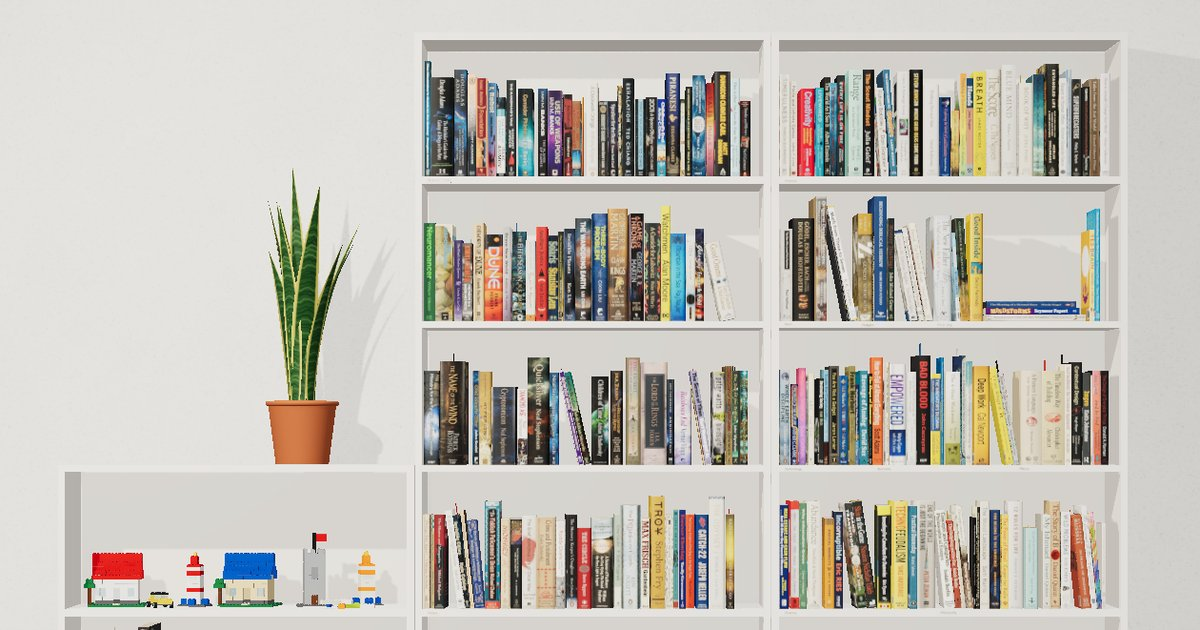
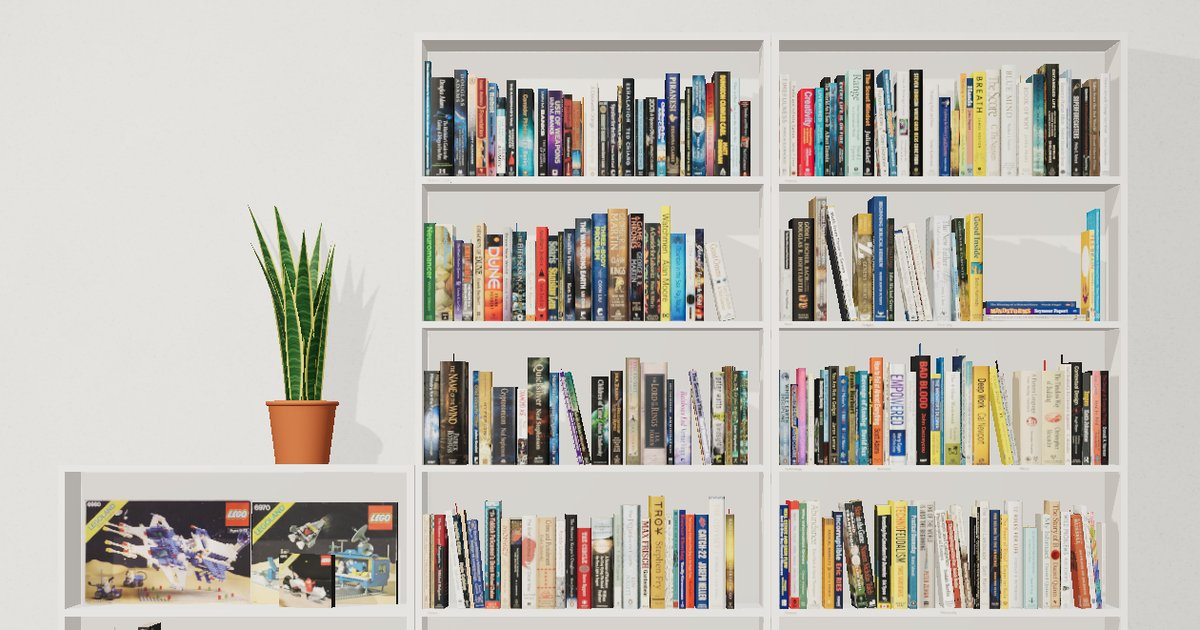
Swap brick builds for classic Lego Space set boxes
The low Billy now displays boxes from 1980s Space sets (Galaxy Commander,
Beta-1 Command Base, Galaxy Explorer, Robot Command Center, ...): real box
art from Brickset on black-sided boxes, big ones leaning against the back
panel with a small one in front. fetch_lego.py downloads the art;
publish.sh ships preview/props.

Changed region(s): [[0.0617, 0.7841, 0.3392, 0.9651], [0.2158, 0.3016, 0.3083, 0.6333]]

diff --git a/poc/preview/index.html b/poc/preview/index.html
@@ -813,173 +813,23 @@ function colourPlan() {
   });
 }
 const notes = [], pivots = [], layoutProps = [];
-// ---------- props on the low Billy: Lego builds, a bookend, a snake plant ----------
-// Bricks are real-size (8 mm stud pitch, 9.6 mm bricks, 3.2 mm plates); each build is merged into one mesh per colour.
-const STUD = 8, BRICK = 9.6, PLATE = 3.2;
-const BRICK_RGB = { red: 0xc91a09, blue: 0x0055bf, yellow: 0xf2cd37, white: 0xf2f2ee, black: 0x1f2326, green: 0x237841,
-  grey: 0xa0a5a9, dkgrey: 0x5f6266, orange: 0xfe8a18, tan: 0xe4cd9e, brown: 0x6b3f22, azure: 0x36aebf, lime: 0xa5ca18 };
-const brickMats = {};
-const brickMat = c => brickMats[c] ??= c === 'glass'
-  ? new THREE.MeshStandardMaterial({ color: 0x9fd3e6, roughness: 0.05, transparent: true, opacity: 0.45 })
-  : new THREE.MeshStandardMaterial({ color: BRICK_RGB[c], roughness: 0.3 });
-const studGeo = new THREE.CylinderGeometry(2.4, 2.4, 1.7, 12);
-const brickGeos = new Map();
-function brickGeo(nx, nz, hgt, studs = true) {
-  const key = `${nx}/${nz}/${hgt}/${studs}`;
-  if (!brickGeos.has(key)) {
-    const parts = [new THREE.BoxGeometry(nx * STUD - 0.2, hgt - 0.1, nz * STUD - 0.2)];
-    if (studs) for (let i = 0; i < nx; i++) for (let k = 0; k < nz; k++)
-      parts.push(studGeo.clone().translate((i - (nx - 1) / 2) * STUD, hgt / 2 + 0.85, (k - (nz - 1) / 2) * STUD));
-    brickGeos.set(key, mergeGeometries(parts));
-  }
-  return brickGeos.get(key);
-}
-// A build: add bricks on a stud grid (gx, gz = corner in studs; y = bottom in mm), then done() -> Group.
-function build() {
-  const byColour = {};
-  const add = (c, nx, nz, gx, gz, y, hgt = BRICK, rot = 0, studs = true) => {
-    const g = brickGeo(nx, nz, hgt, studs).clone();
-    if (rot) g.rotateY(rot);
-    g.translate((gx + nx / 2) * STUD, y + hgt / 2, (gz + nz / 2) * STUD);
-    (byColour[c] ??= []).push(g);
-  };
-  const extra = [];
-  return {
-    add, extra, raw: (c, g) => (byColour[c] ??= []).push(g),
-    // one course of a wall along a line of cells, broken into bricks of up to 4 studs (staggered by course)
-    course(c, cells, y, row, alongX) {
-      let run = [];
-      const flush = () => {
-        for (let i = 0; i < run.length;) {
-          const len = Math.min(i === 0 && row % 2 ? 2 : 4, run.length - i);
-          const [x, z] = run[i];
-          alongX ? add(c, len, 1, x, z, y) : add(c, 1, len, x, z, y);
-          i += len;
-        }
-        run = [];
-      };
-      for (const cell of cells) {
-        if (cell === null) { flush(); continue; }
-        if (run.length && (alongX ? cell[0] !== run.at(-1)[0] + 1 : cell[1] !== run.at(-1)[1] + 1)) flush();
-        run.push(cell);
-      }
-      flush();
-    },
-    done() {
-      const grp = new THREE.Group();
-      for (const [c, gs] of Object.entries(byColour)) {
-        const m = new THREE.Mesh(mergeGeometries(gs), brickMat(c));
-        m.castShadow = c !== 'glass'; m.receiveShadow = true;
-        grp.add(m);
-      }
-      extra.forEach(m => grp.add(m));
-      return grp;
-    },
-  };
-}
-const range = (a, b) => Array.from({ length: b - a + 1 }, (_, i) => a + i);
-
-function legoHouse(roof = 'red', walls = 'white') {
-  const b = build();
-  b.add('green', 16, 16, 0, 0, 0, PLATE);                          // baseplate
-  const x0 = 2, x1 = 13, z0 = 3, z1 = 12, y0 = PLATE;
-  const door = x => x >= 7 && x <= 8, win = x => (x >= 3 && x <= 4) || (x >= 11 && x <= 12);
-  for (let row = 0; row < 6; row++) {
-    const y = y0 + row * BRICK, c = row === 0 ? 'dkgrey' : walls;
-    const gap = x => (door(x) && row < 4) || (win(x) && row >= 2 && row <= 3);
-    b.course(c, range(x0, x1).map(x => gap(x) ? null : [x, z1]), y, row, true);          // front (faces us)
-    b.course(c, range(x0, x1).map(x => (win(x) && row >= 2 && row <= 3) ? null : [x, z0]), y, row + 1, true);   // back
-    b.course(c, range(z0 + 1, z1 - 1).map(z => [x0, z]), y, row + 1, false);
-    b.course(c, range(z0 + 1, z1 - 1).map(z => [x1, z]), y, row, false);
-  }
-  b.add(walls, 2, 1, 7, z1, y0 + 4 * BRICK);                     // lintel over the door
-  for (const wx of [3, 11]) b.add('glass', 2, 1, wx, z1, y0 + 2 * BRICK, BRICK * 2, 0, false);
-  // stepped gable roof: each course steps in one stud from front and back
-  for (let k = 0; k < 5; k++) {
-    const y = y0 + (6 + k) * BRICK;
-    b.course(roof, range(x0 - 1, x1 + 1).map(x => [x, z0 + k]), y, k, true);
-    b.course(roof, range(x0 - 1, x1 + 1).map(x => [x, z1 - k]), y, k + 1, true);
-    if (z1 - k - 1 > z0 + k) {                                        // fill the gable ends
-      b.course(walls, range(z0 + k + 1, z1 - k - 1).map(z => [x0, z]), y, k, false);
-      b.course(walls, range(z0 + k + 1, z1 - k - 1).map(z => [x1, z]), y, k + 1, false);
-    }
-  }
-  b.add(roof, 14, 1, x0 - 1, 7, y0 + 11 * BRICK);
-  b.add(roof, 14, 1, x0 - 1, 8, y0 + 11 * BRICK);
-  for (let r = 0; r < 3; r++) b.add('dkgrey', 2, 2, 10, 5, y0 + (9 + r) * BRICK);   // chimney
-  for (let r = 0; r < 4; r++) b.add('brown', 1, 1, 0, 14, y0 + r * BRICK);           // little tree
-  b.add('green', 3, 3, -1, 13, y0 + 4 * BRICK); b.add('green', 2, 2, -0.5, 13.5, y0 + 5 * BRICK);
-  b.add('tan', 2, 4, 7, 13, PLATE, PLATE);                          // path to the door
-  return b.done();
-}
-
-function legoTower(stone = 'grey') {
-  const b = build();
-  b.add('dkgrey', 10, 10, 0, 0, 0, PLATE);
-  const lo = 2, hi = 7, rows = 12;
-  for (let row = 0; row < rows; row++) {
-    const y = PLATE + row * BRICK, slit = row >= 6 && row <= 8;
-    b.course(stone, range(lo, hi).map(x => (slit && x >= 4 && x <= 5) ? null : [x, hi]), y, row, true);
-    b.course(stone, range(lo, hi).map(x => [x, lo]), y, row + 1, true);
-    b.course(stone, range(lo + 1, hi - 1).map(z => [lo, z]), y, row + 1, false);
-    b.course(stone, range(lo + 1, hi - 1).map(z => [hi, z]), y, row, false);
-  }
-  const top = PLATE + rows * BRICK;
-  for (const x of [lo, lo + 2, lo + 4]) { b.add(stone, 1, 1, x, hi, top); b.add(stone, 1, 1, x, lo, top); }
-  for (const z of [lo + 2, lo + 4]) { b.add(stone, 1, 1, lo, z, top); b.add(stone, 1, 1, hi, z, top); }
-  for (let r = 0; r < 5; r++) b.add('black', 1, 1, 4.5, 4.5, top + r * BRICK, BRICK, 0, false);   // flagpole
-  b.add('red', 3, 1, 5.5, 4.5, top + 3 * BRICK, BRICK * 1.6, 0, false);
-  b.add('brown', 2, 1, 4, hi + 0.12, PLATE, BRICK * 2.5, 0, false);  // door, just proud of the wall
-  return b.done();
-}
-
-function legoRocket(stripe = 'red') {
-  const b = build();
-  b.add('dkgrey', 8, 8, 0, 0, 0, PLATE);
-  for (let r = 0; r < 9; r++) b.add(r % 4 === 3 ? stripe : 'white', 4, 4, 2, 2, PLATE + r * BRICK);
-  for (const [x, z, nx, nz] of [[0, 3, 2, 2], [6, 3, 2, 2], [3, 0, 2, 2], [3, 6, 2, 2]]) {   // fins
-    b.add('blue', nx, nz, x, z, PLATE, BRICK);
-    b.add('blue', nx, nz, x, z, PLATE + BRICK, PLATE);
-  }
-  const top = PLATE + 9 * BRICK;
-  b.add(stripe, 4, 4, 2, 2, top, PLATE);
-  b.add(stripe, 2, 2, 3, 3, top + PLATE, BRICK);
-  b.add(stripe, 2, 2, 3, 3, top + PLATE + BRICK, BRICK);
-  b.add('yellow', 1, 1, 3.5, 3.5, top + PLATE + 2 * BRICK, BRICK);
-  b.add('glass', 2, 1, 3, 6, PLATE + 6 * BRICK, BRICK, 0, false);    // porthole
-  return b.done();
-}
-
-function legoCar(body = 'red') {
-  const b = build();
-  b.add('dkgrey', 4, 10, 0, 0, 7, PLATE);                           // chassis on the axles
-  const wheelGeo = new THREE.CylinderGeometry(7, 7, 6, 20).rotateZ(Math.PI / 2);
-  const hubGeo = new THREE.CylinderGeometry(3.5, 3.5, 6.4, 12).rotateZ(Math.PI / 2);
-  for (const z of [2, 8]) for (const x of [-0.4, 4.4]) {             // merged into the build's black/grey meshes
-    b.raw('black', wheelGeo.clone().translate(x * STUD, 7, z * STUD));
-    b.raw('grey', hubGeo.clone().translate(x * STUD, 7, z * STUD));
-  }
-  const y = 7 + PLATE;
-  b.add(body, 4, 3, 0, 7, y); b.add(body, 4, 2, 0, 0, y);           // bonnet and boot
-  b.add(body, 1, 5, 0, 2, y); b.add(body, 1, 5, 3, 2, y);           // sides
-  b.add('glass', 4, 1, 0, 6, y + BRICK, BRICK, 0, false);           // windscreen
-  b.add(body, 1, 4, 0, 2, y + BRICK); b.add(body, 1, 4, 3, 2, y + BRICK);
-  b.add('black', 4, 5, 0, 2, y + 2 * BRICK, PLATE);                 // roof
-  b.add('yellow', 1, 1, 0, 9, y, PLATE); b.add('yellow', 1, 1, 3, 9, y, PLATE);   // headlights
-  return b.done();
-}
-
-function legoPile(rng, n = 16) {
-  const b = build();
-  const colours = ['red', 'blue', 'yellow', 'white', 'green', 'orange', 'black', 'azure', 'lime'];
-  const sizes = [[2, 4], [2, 2], [1, 4], [1, 2], [2, 3], [1, 6], [2, 6]];
-  for (let i = 0; i < n; i++) {
-    const [nx, nz] = sizes[Math.floor(rng() * sizes.length)];
-    const stacked = rng() < 0.3;
-    b.add(colours[Math.floor(rng() * colours.length)], nx, nz, rng() * 14, rng() * 9, stacked ? BRICK : 0,
-          rng() < 0.4 ? PLATE : BRICK, rng() * Math.PI);
-  }
-  return b.done();
+// ---------- props on the low Billy: classic Lego Space boxes, a bookend, a snake plant ----------
+// Box art from preview/props/lego (see fetch_lego.py). Boxes stand on their long edge, leaning back a little,
+// big ones against the back panel and smaller ones in front.
+const legoSets = await fetch('props/lego/manifest.json').then(r => r.ok ? r.json() : []).catch(() => []);
+const boxSide = new THREE.MeshStandardMaterial({ color: 0x17171c, roughness: 0.55 });
+const boxTop = new THREE.MeshStandardMaterial({ color: 0x232329, roughness: 0.6 });
+async function legoBox(set, height) {
+  const img = await loadImg(set.file);
+  const tex = img ? new THREE.CanvasTexture(img) : null;
+  if (tex) { tex.colorSpace = THREE.SRGBColorSpace; tex.anisotropy = maxAniso; }
+  const w = height * set.aspect, d = Math.max(45, Math.min(90, w * 0.17));
+  const front = new THREE.MeshStandardMaterial({ map: tex, roughness: 0.42 });
+  const m = new THREE.Mesh(new THREE.BoxGeometry(w, height, d), [boxSide, boxSide, boxTop, boxSide, front, boxSide]);
+  m.geometry.translate(0, height / 2, -d / 2);                     // origin at the bottom front edge
+  m.castShadow = m.receiveShadow = true;
+  m.userData.size = { w, h: height, d };
+  return m;
 }
 
 // A heavy walnut block bookend with a rounded top, holding the last book up.
@@ -1062,21 +912,22 @@ function snakePlant(rng) {
       obj.position.set(low.x0 + x, baseY(low, shelf), z); obj.rotation.y = rotY; scene.add(obj);
     };
     const last = low.N - 1;
-    put(legoHouse(), 0, 30, -235, 0.05);                              // top compartment: a little town
-    put(legoCar('yellow'), 0, 175, -95, 0.4);
-    put(legoRocket(), 0, 250, -190, -0.2);
-    put(legoHouse('blue', 'tan'), 0, 340, -250, -0.1);
-    put(legoTower(), 0, 500, -200, 0.12);
-    put(legoRocket('orange'), 0, 620, -230, 0.3);
-    put(legoPile(prng, 10), 0, 560, -110, 0);
-    put(legoCar('red'), 1, 470, -150, 1.35);                          // book shelf: past the bookend
-    put(legoTower('tan'), 1, 600, -215, -0.1);
-    put(legoTower(), last, 30, -215, -0.08);                          // bottom: castle, cars, a bin of loose bricks
-    put(legoTower('dkgrey'), last, 120, -250, 0.05);
-    put(legoCar('blue'), last, 245, -130, -1.1);
-    put(legoPile(prng, 26), last, 300, -230, 0.1);
-    put(legoCar('green'), last, 440, -120, 0.25);
-    put(legoHouse('red', 'white'), last, 560, -240, -0.15);
+    const bySet = Object.fromEntries(legoSets.map(x => [x.set, x]));
+    // [set, shelf, x (left edge), z (front face), box height, lean back (rad), turn (rad)]
+    const layout = [
+      ['6980', 0, 15, -228, 240, 0.07, 0.03], ['6970', 0, 395, -232, 235, 0.08, -0.04],
+      ['6842', 0, 470, -70, 120, 0.03, -0.14],
+      ['6950', 1, 565, -175, 200, 0.05, -0.08],
+      ['928', last, 10, -230, 250, 0.07, 0.02], ['6951', last, 395, -228, 245, 0.08, -0.03],
+      ['6880', last, 60, -75, 125, 0.03, 0.12],
+    ];
+    for (const [num, shelf, x, z, h, lean, turn] of layout) {
+      if (!bySet[num]) continue;
+      const box = await legoBox(bySet[num], h);
+      const holder = new THREE.Group();
+      holder.add(box); box.rotation.x = -lean;                     // top tips back toward the wall
+      put(holder, shelf, x + box.userData.size.w / 2, z, turn);
+    }
     const plant = snakePlant(prng);
     plant.position.set(low.x0 + inner * 0.68, plinth + low.H + board, -depth / 2 - 10);
     scene.add(plant);

diff --git a/poc/fetch_lego.py b/poc/fetch_lego.py
@@ -1,0 +1,34 @@
+"""Box art for the classic Lego Space sets on the low Billy (images: Brickset; box art (c) The LEGO Group).
+Writes preview/props/lego/<set>.jpg (front, ~600 px) and preview/props/lego/manifest.json with each box's aspect
+ratio (sides are classic-Space black)."""
+import io
+import json
+import urllib.request
+from pathlib import Path
+
+from PIL import Image
+
+HERE = Path(__file__).resolve().parent
+OUT = HERE / "preview/props/lego"
+# set number, name, real box width in mm (approximate; boxes are scaled to fit the compartments)
+SETS = [("6980", "Galaxy Commander", 470), ("6970", "Beta-1 Command Base", 440), ("928", "Galaxy Explorer", 480),
+        ("6951", "Robot Command Center", 380), ("6880", "Surface Explorer", 240), ("6842", "Shuttle Craft", 220),
+        ("6950", "Mobile Rocket Transport", 250)]
+
+
+def main():
+    OUT.mkdir(parents=True, exist_ok=True)
+    manifest = []
+    for num, name, w in SETS:
+        req = urllib.request.Request(f"https://images.brickset.com/sets/images/{num}-1.jpg", headers={"User-Agent": "bookshelf/1.0"})
+        im = Image.open(io.BytesIO(urllib.request.urlopen(req, timeout=30).read())).convert("RGB")
+        im.thumbnail((640, 640), Image.LANCZOS)
+        im.save(OUT / f"{num}.jpg", quality=84, optimize=True)
+        manifest.append({"set": num, "name": name, "file": f"props/lego/{num}.jpg", "aspect": round(im.width / im.height, 3),
+                         "w": w, "side": "#17171c"})
+        print(num, name, im.size, manifest[-1]["side"])
+    (OUT / "manifest.json").write_text(json.dumps(manifest, indent=1))
+
+
+if __name__ == "__main__":
+    main()
